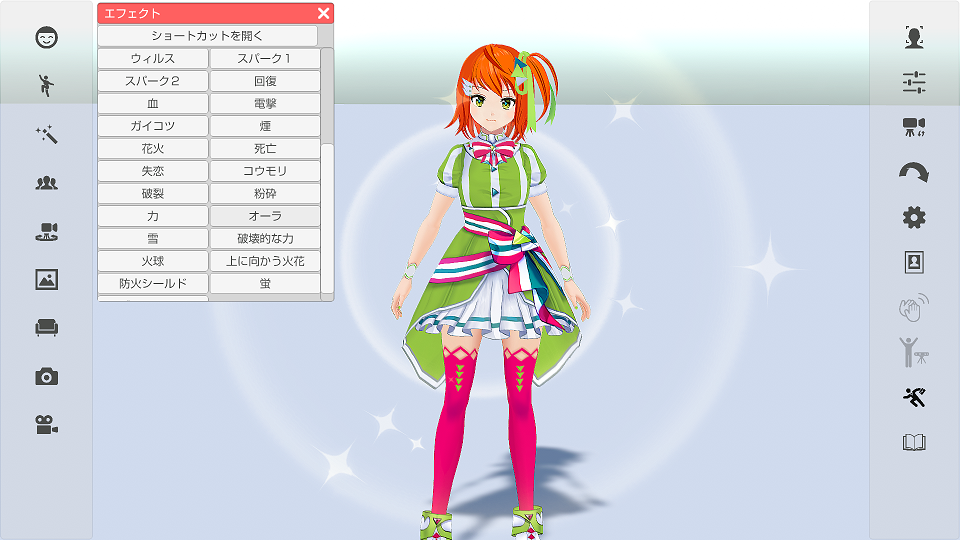
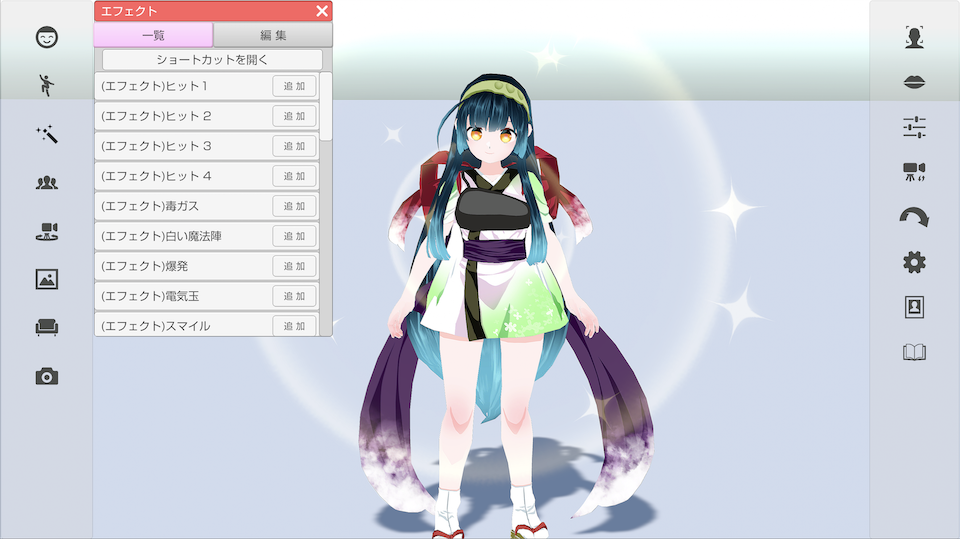
エフェクトの説明を更新。

diff --git a/effect.md b/effect.md
@@ -12,7 +12,7 @@
 
 ### エフェクトを実行する
 
->リストから実行したいエフェクトを選択すると
+>上部タブ「一覧」内のリストから実行したいエフェクトを選択すると
 >画面にエフェクトが表示されます。
 
 ![画像](image/ScreenEffect_2.png "")
@@ -24,9 +24,106 @@
 
 ### ショートカットに割り当てる
 
->「ショートカットを開く」を選択すると
+>「ショートカットを開く」をクリックすると
 >設定ウインドウの「ショートカット」タブが表示されるので
 >実行したいエフェクトにキーボードやゲームパッドを割り当ててください。
 
+***
+
+## エフェクトグループについて
+
+>グループを作成して複数のエフェクトを組み合わせて表示することができます。
+>また、グループ内の各エフェクトの位置・回転・スケール・開始時間を設定することができます。
+
+### グループを作成する
+
+>上部タブ「編集」をクリックします。画像①
+>「グループ管理」をクリックするとグループの管理画面が表示されます。画像②
+>「グループ新規作成」をクリックすると新しいグループ『エフェクトセット1』が作成されます。画像③, ④
+>(保存中のグループの数によって初期名称の数字が変わります)
+>グループが作成されると自動的に選択状態(背景青色)となります。
+
+![画像](image/ScreenEffect_4.png "")
+
+### 編集するグループを選択する・削除する
+
+>上部タブ「編集」-「グループ管理」をクリックしてグループ管理画面を開きます。
+>「グループ管理」内のリスト右側の「編集」をクリックすると該当のグループを選択することができます。(選択されているグループの背景は青色になります) 画像①
+>グループが選択されると自動的にエフェクト編集画面が表示され、グループに保存されているエフェクトの一覧が表示されます。
+>
+>「グループ管理」内のリストの右側の「削除」をクリックすると該当のグループを削除します。画像②
+
+![画像](image/ScreenEffect_5.png "")
+
+### グループにエフェクトを追加する
+
+>上部タブ「一覧」をクリックします。
+>「一覧」内のリストの右にある「追加」をクリックすることで、グループにエフェクトが追加されます。
+>(グループが選択状態の時はそのグループに、未選択状態の時は新しいグループが自動で作成され新しいグループに追加されます)
+>エフェクトが追加されると自動的にエフェクト編集画面が表示されます。
+
+![画像](image/ScreenEffect_6.png "")
+
+### グループのエフェクトを編集する
+
+>
+>グループが選択された状態で上部タブ「編集」「エフェクト編集」をクリックしてエフェクト編集画面を表示します。
+>「エフェクト編集」内のリストをクリックすると該当のリスト背景が青色に変化し同エフェクトのエフェクトの調整ウィンドウが表示されます。画像①, ②
+>(リストがない場合は「一覧」からエフェクトを追加してください)
+>
+>また、選択中のエフェクトにオレンジのポイントが表示されます。画像③
+>エフェクトの調整ウィンドウ上部の位置、回転、スケールの調整したいもののチェックボックスにチェックを入れるとそれぞれを調整することが出来ます。画像④
 
 
+![画像](image/ScreenEffect_7.png "")
+
+>下記画像は位置、回転、スケールのウィンドウになります。
+>「+」「-」ボタン（長押し可能）をクリックする事で値を変更します。
+>「+」「-」の間のリセットボタンをクリックすると該当する軸の値を初期値に戻します。
+>下部のリセットボタンをクリックすると全ての軸の値を初期値に戻します。（オブジェクトを読み込んだ時の状態）
+>※スケールについては「All」のリセットで全ての軸を初期値に戻します。
+
+![画像](image/ScreenEffect_8.png "")
+
+>エフェクトの調整ウィンドウの下部に開始時間の設定項目があります。画像①
+>「+」「-」ボタン（長押し可能）をクリックする事で開始時間の値を変更します。
+>1秒ずつ、または0.01秒ずつ変更できます。
+>「+」「-」の間のリセットボタンをクリックすると開始時間の値を初期値に戻します。
+>
+>「エフェクト再生」をクリックすると編集中のエフェクトを発生させて確認することができます。画像②
+>編集が完了したら「グループ更新」をクリックして選択中のグループを更新します。画像③
+
+![画像](image/ScreenEffect_9.png "")
+
+### グループのエフェクトを削除する
+
+>グループが選択された状態で上部タブ「編集」「エフェクト編集」をクリックしてエフェクト編集画面を表示します。
+>「エフェクト編集」内のリストの右の「削除」をクリックすると該当のエフェクトが削除されます。画像①
+>「グループを更新」をクリックして選択中のグループを更新します。画像②
+
+![画像](image/ScreenEffect_10.png "")
+
+### グループを再生する
+
+>上部タブ「編集」「グループ管理」をクリックしてグループ管理画面を表示します。
+>「グループ管理」内のリストをクリックするとグループを再生することができます。画像①
+
+![画像](image/ScreenEffect_11.png "")
+
+### グループの名前を変える
+
+>上部タブ「編集」「グループ管理』をクリックしてグループ管理画面を開きます。
+>「グループ管理』内のリストから、名前を変更したいグループの「編集」をクリックして選択状態にします。画像①
+>ウィンドウ下側にあるグループ名のテキストを変更し、「グループ名変更」をクリックするとグループの名称を変更できます。画像②, ③
+
+![画像](image/ScreenEffect_12.png "")
+
+***
+
+
+## グループのショートカットについて
+
+>上部タブ「編集」-「グループ管理」内のグループのリストの上から５つのグループはショートカット機能が使えます。
+>上部タブ「一覧」内、または「編集」-「グループ管理」内の「ショートカットを開く」をクリックするとショートカット設定ウインドウが開きます。
+>※3tene右側メニュー上から6番目の「設定」アイコンからも開くことが出来ます。
+>ショートカットリストの中の「エフェクトグループ1」〜「エフェクトグループ5」にショートカットキーを設定することが出来ます。
